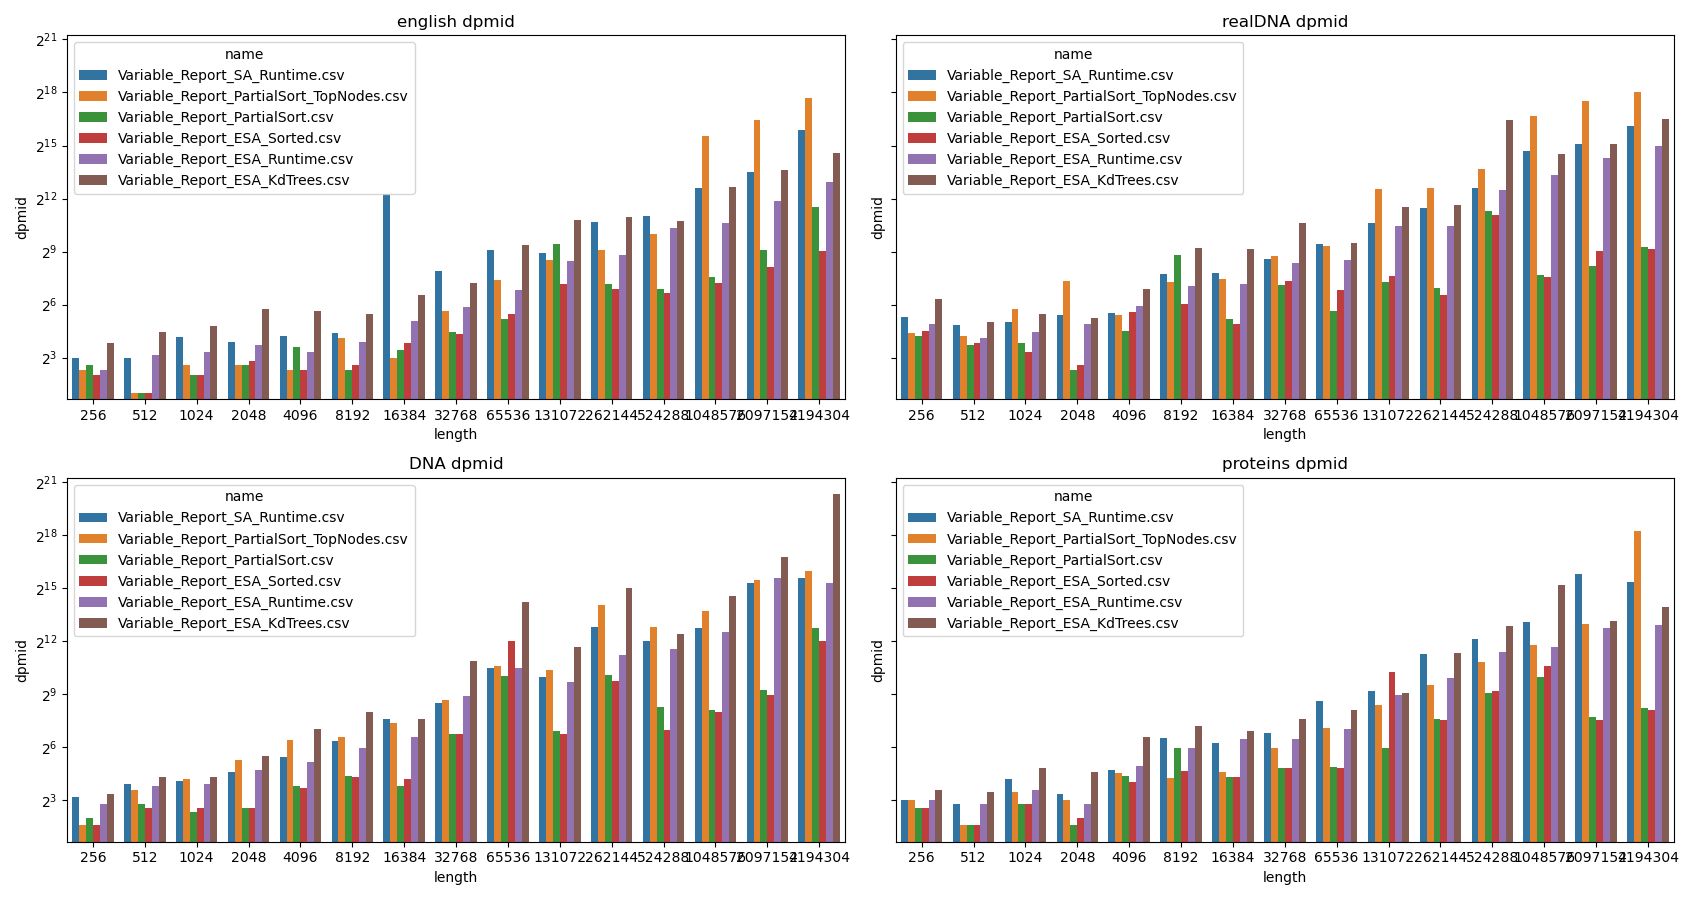
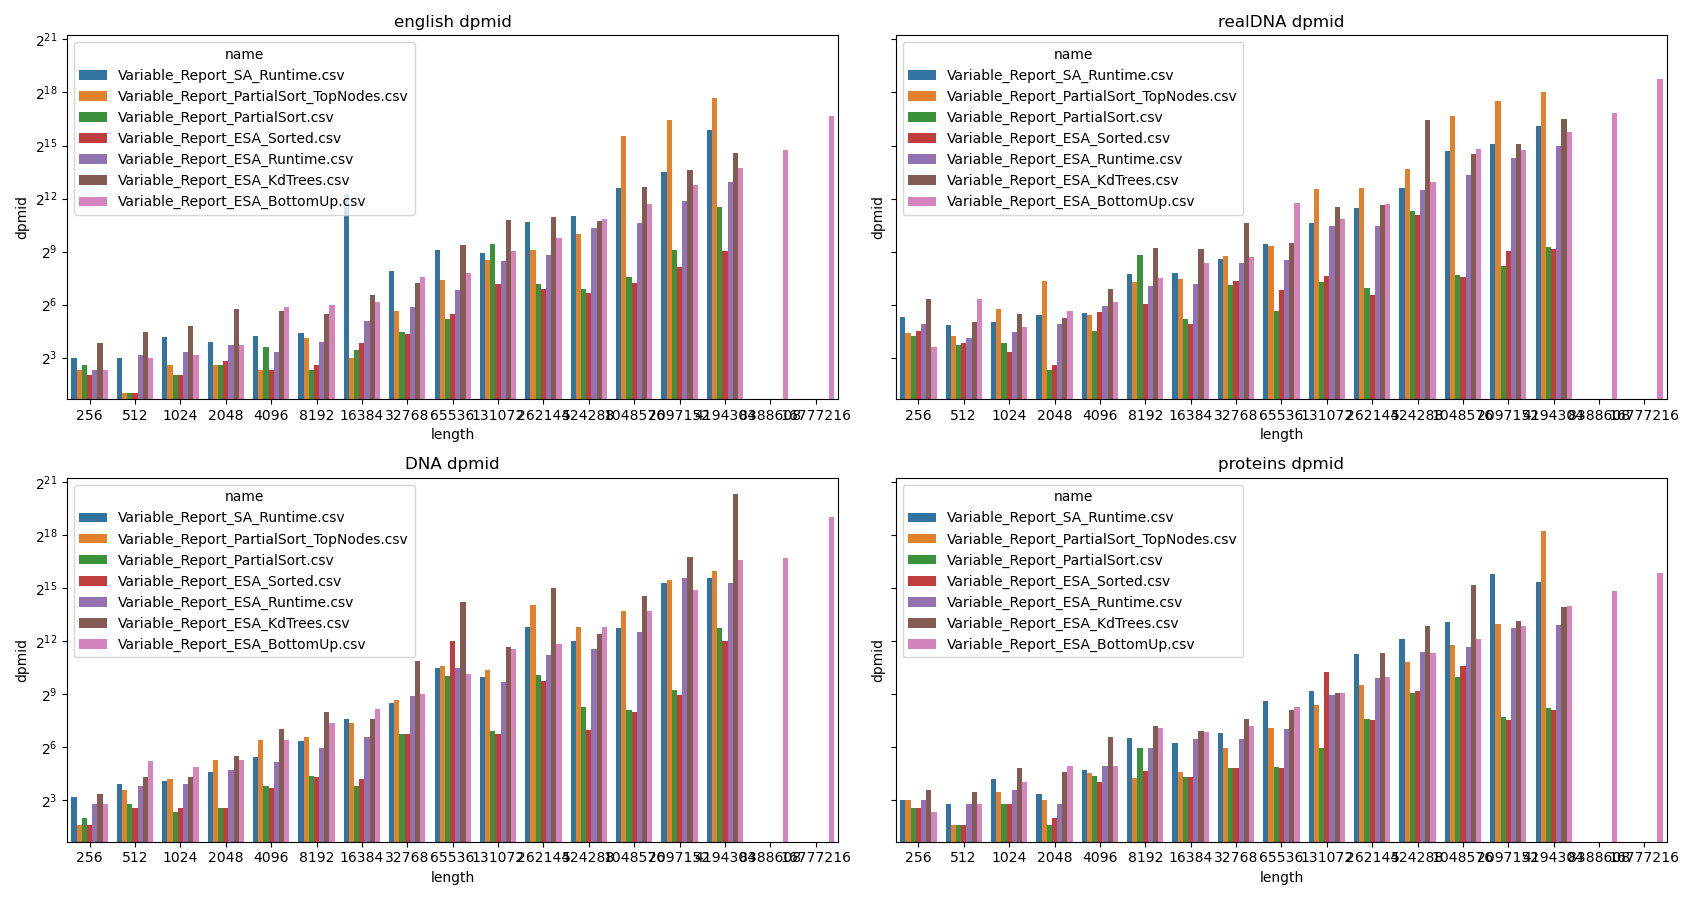
dsa

diff --git a/ConsoleApp/Program.cs b/ConsoleApp/Program.cs
@@ -99,15 +99,17 @@ namespace ConsoleApp
                 "DNA_16777216",
                 "realDNA_16777216",
                 "english_16777216",
+                /*
                 "proteins_33554432",
                 "realDNA_33554432",
                 "english_33554432",
                 "DNA_33554432",
+                */
             };
 
             var singlePatternReportingDataStructures = new (string, BuildSinglePatternReporting)[]
             {
-                //("Precomputed Substrings", BuildPrecomputedSubstrings),
+                ("Precomputed Substrings", BuildPrecomputedSubstrings),
                 ("Suffix Tree", BuildSuffixTree),
                 ("Suffix Array", BuildSuffixArray),
                 ("Enhanced Suffix Array", BuildEnhancedSuffixArray)
@@ -126,14 +128,13 @@ namespace ConsoleApp
             variableReportDataStructures = new (string, BuildVariableReportDataStructure)[]
             {
                 
-                /*
+                
                 ("Variable_Report_SA_Runtime", Variable_SA_Runtime_Build),
                 ("Variable_Report_ESA_Runtime", Variable_ESA_Runtime_Build),
                 ("Variable_Report_ESA_Sorted", Variable_ESA_Sorted_Build),
                 ("Variable_Report_PartialSort", Variable_ESA_PartialSort_Build),
                 ("Variable_Report_PartialSort_TopNodes", Variable_ESA_PartialSort_TopNodes_Build),
-                ("Variable_Report_ESA_KdTrees", Variable_ESA_2D_Build)
-                */
+                ("Variable_Report_ESA_KdTrees", Variable_ESA_2D_Build),
                 ("Variable_Report_ESA_BottomUp", Variable_ESA_BottomUp_Build),
 
             };
@@ -152,7 +153,6 @@ namespace ConsoleApp
             fixedExistDataStructures = new (string, BuildFixedExistDataStructure)[]
             {
                 ("Fixed_Exist_ESA_Runtime", Build_Exist_Fixed_ESA_Runtime),
-                //("Fixed_Exist_ESA_PartiallyHashed",Fixed_Exist_ESA_PartiallyHashed)
             };
 
             variableExistDataStructures = new (string, BuildVariableExistDataStructure)[]
@@ -226,9 +226,10 @@ namespace ConsoleApp
                 Stopwatch stopwatch;
                 query1.Y = query.Y; query2.Y = query.Y; query3.Y = query.Y;
 
-                /*
+                
                 foreach ((var name, var dataStructure) in singlePatternReportingDataStructures)
                 {
+                    if (name.Contains("Precomputed") && suffixA.n > 2050) continue;
                     var dataset = DummyData.Read(textName);
                     stopwatch = Stopwatch.StartNew();
                     IReportSinglePattern reportFixed = dataStructure.Invoke(dataset);
@@ -273,11 +274,12 @@ namespace ConsoleApp
                     File.AppendAllText($"{resultsDir}\\{name}.csv", s);
                     Console.WriteLine(name + " " + s);
                 }
-                */
+                
 
-                /*
+                
                 foreach ((var name, var dataStructure) in fixedReportDataStructures)
                 {
+                    
                     stopwatch = Stopwatch.StartNew();
                     IReportFixed reportFixed = dataStructure.Invoke(suffixA);
                     stopwatch.Stop();
@@ -339,7 +341,7 @@ namespace ConsoleApp
                     File.AppendAllText($"{resultsDir}\\{name}.csv", s);
                     Console.WriteLine(s);
                 }
-                */
+                
 
                 foreach ((var name, var dataStructure) in variableReportDataStructures)
                 {
